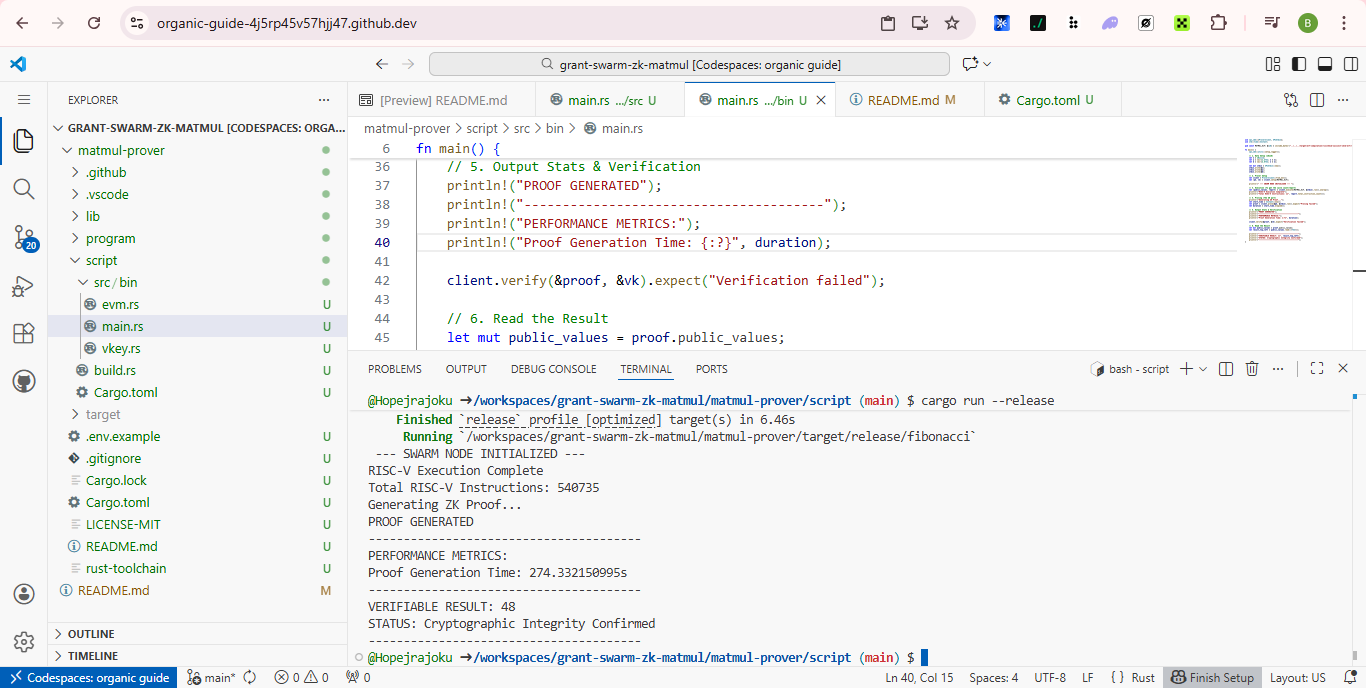
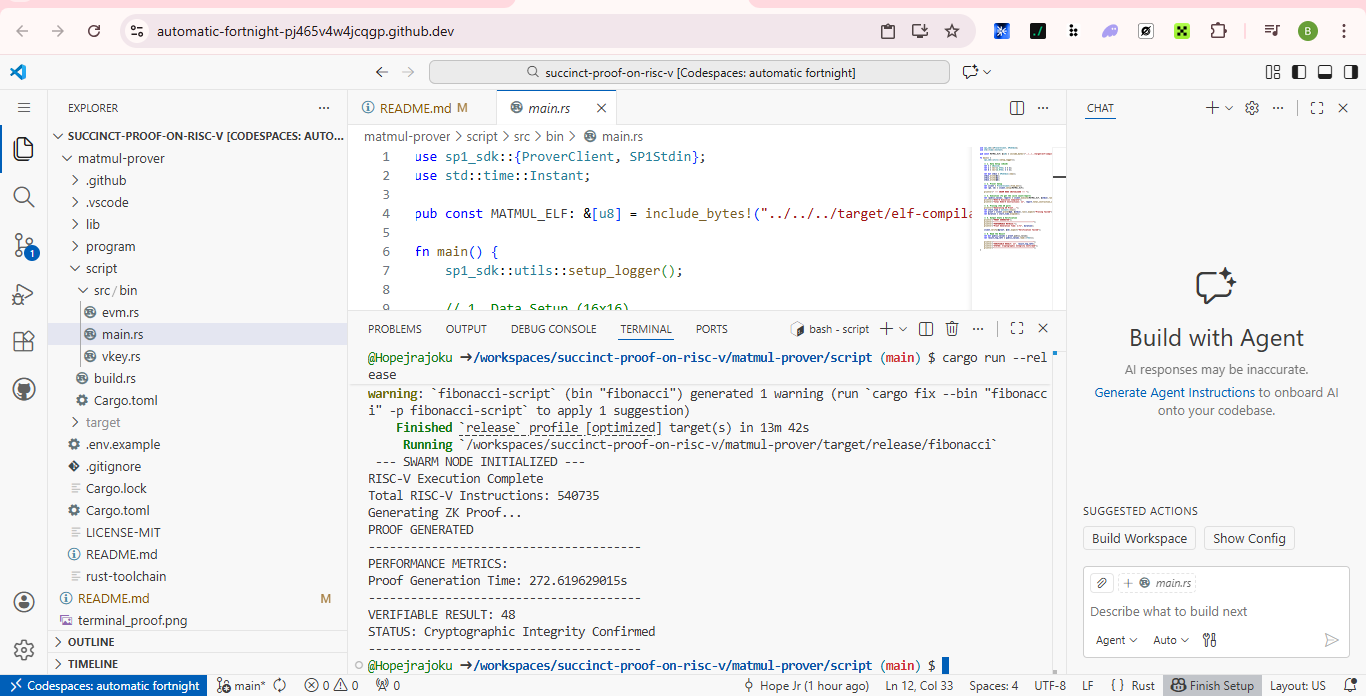
docs: update name and add devcontainer for instant setup

diff --git a/README.md b/README.md
@@ -1,4 +1,4 @@
-# Grant Swarm: Verifiable Matrix Multiplication (ZK-MatMul)
+# Succinct Proof on RISC-V (ZK-MatMul)
 
 This project implements **Verifiable Compute** for decentralized AI swarms. Using **SP1 (Succinct Prover 1)** and a **RISC-V zkVM**, we prove that matrix multiplication was performed correctly without requiring the verifier to re-run the computation.
 
@@ -14,7 +14,7 @@ In a decentralized "Swarm" of AI agents, nodes must perform heavy mathematical l
 - **RISC-V Instructions**: 540,735 cycles.
 - **Proof Generation Time**: 275.80 seconds.
 - **Verifiable Result**: 48.0 (Example Output).
-- **Integrity**:  **Cryptographically Verified**
+- **Integrity**: **Cryptographically Verified**
 
 ## Tech Stack
 - **Guest Program**: Rust-based MatMul compiled to **RISC-V**.
@@ -25,3 +25,8 @@ In a decentralized "Swarm" of AI agents, nodes must perform heavy mathematical l
 ## How to Run
 1. **Build Guest**: `cd matmul-prover/program && cargo prove build`
 2. **Run Prover**: `cd matmul-prover/script && cargo run --release`
+
+---
+
+### Judge/Contributor Tip: Instant Environment
+This repository includes a `.devcontainer` configuration. If you open this project in **GitHub Codespaces**, the Rust toolchain and SP1 RISC-V environment will be installed automatically, allowing you to run the prover immediately without manual setup.
